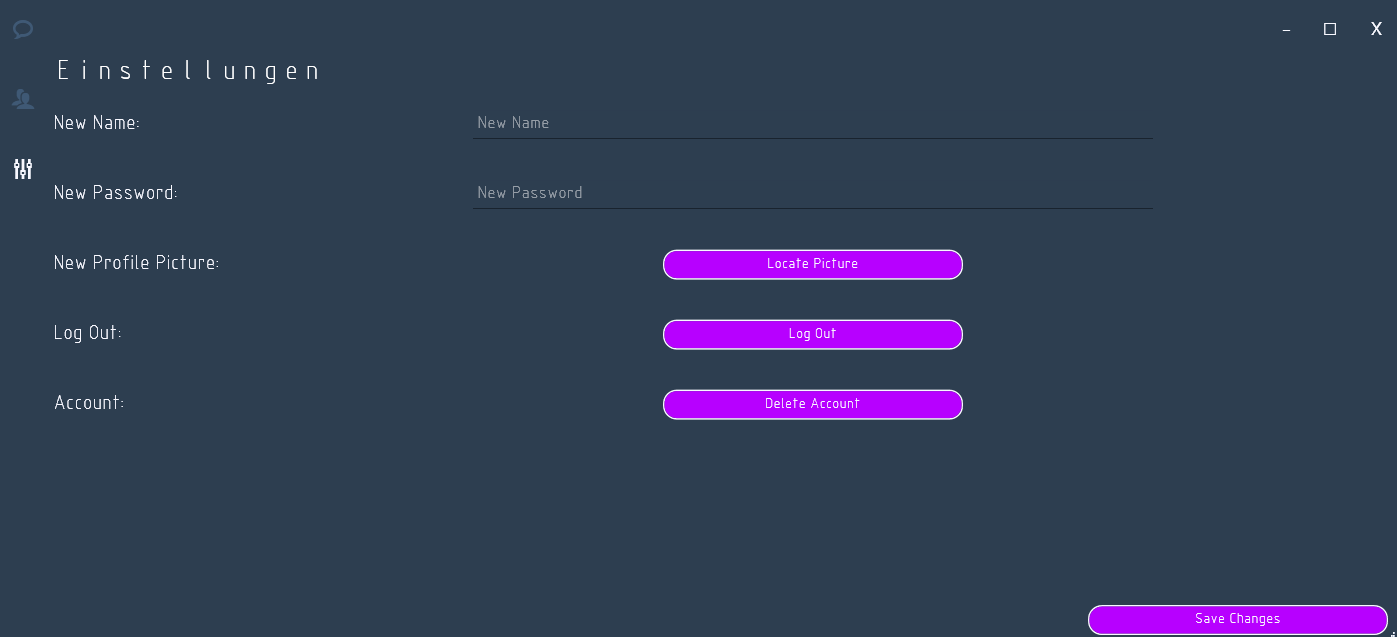
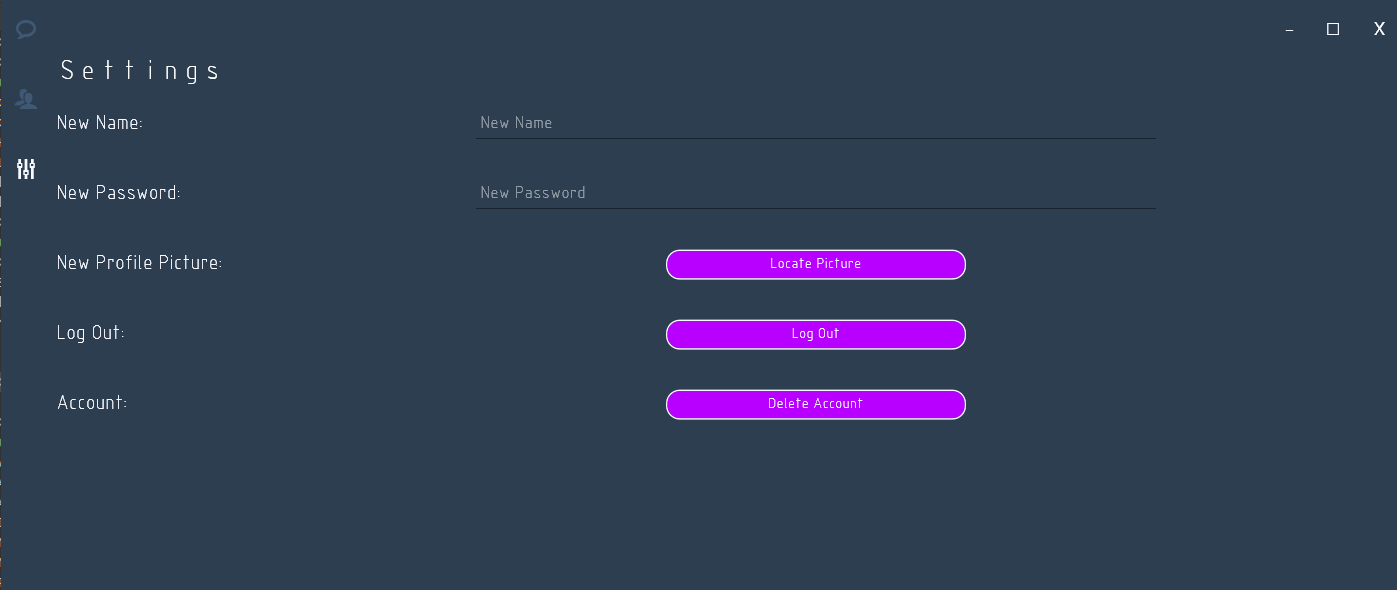
changed Language

diff --git a/ChatApp/ChatApp/Settings/SettingsControl.xaml b/ChatApp/ChatApp/Settings/SettingsControl.xaml
@@ -18,7 +18,7 @@
         <StackPanel Grid.Row="0" >
 
 
-            <Label Content="Einstellungen" Foreground="White"
+            <Label Content="Settings" Foreground="White"
                    FontFamily="{StaticResource SwLink}" FontSize="27" />
 
             <settingsInput:SettingsInputControl Height="50" Margin="0,10"
